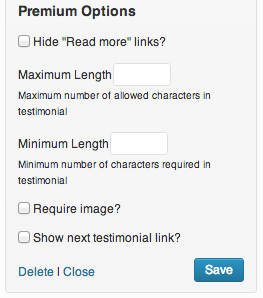
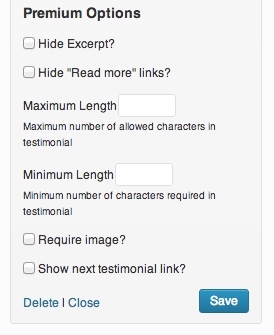
Version 2.7.2
* Screenshot 12 update
* Screenshot 16 Edit testimonial with "Excerpt" and "Read More Link" fields - Testimonials Widget Premium plugin

git-svn-id: https://plugins.svn.wordpress.org/testimonials-widget/trunk@652812 b8457f37-d9ea-0310-8a92-e5e31aec5664

diff --git a/testimonials-widget.php b/testimonials-widget.php
@@ -3,7 +3,7 @@
 	Plugin Name: Testimonials Widget
 	Plugin URI: http://wordpress.org/extend/plugins/testimonials-widget/
 	Description: Testimonials Widget plugin allows you to display random or rotating portfolio, quotes, reviews, showcases, or text with images on your WordPress blog.
-	Version: 2.7.1
+	Version: 2.7.2
 	Author: Michael Cannon
 	Author URI: http://aihr.us/about-aihrus/michael-cannons-resume/
 	License: GPLv2 or later
